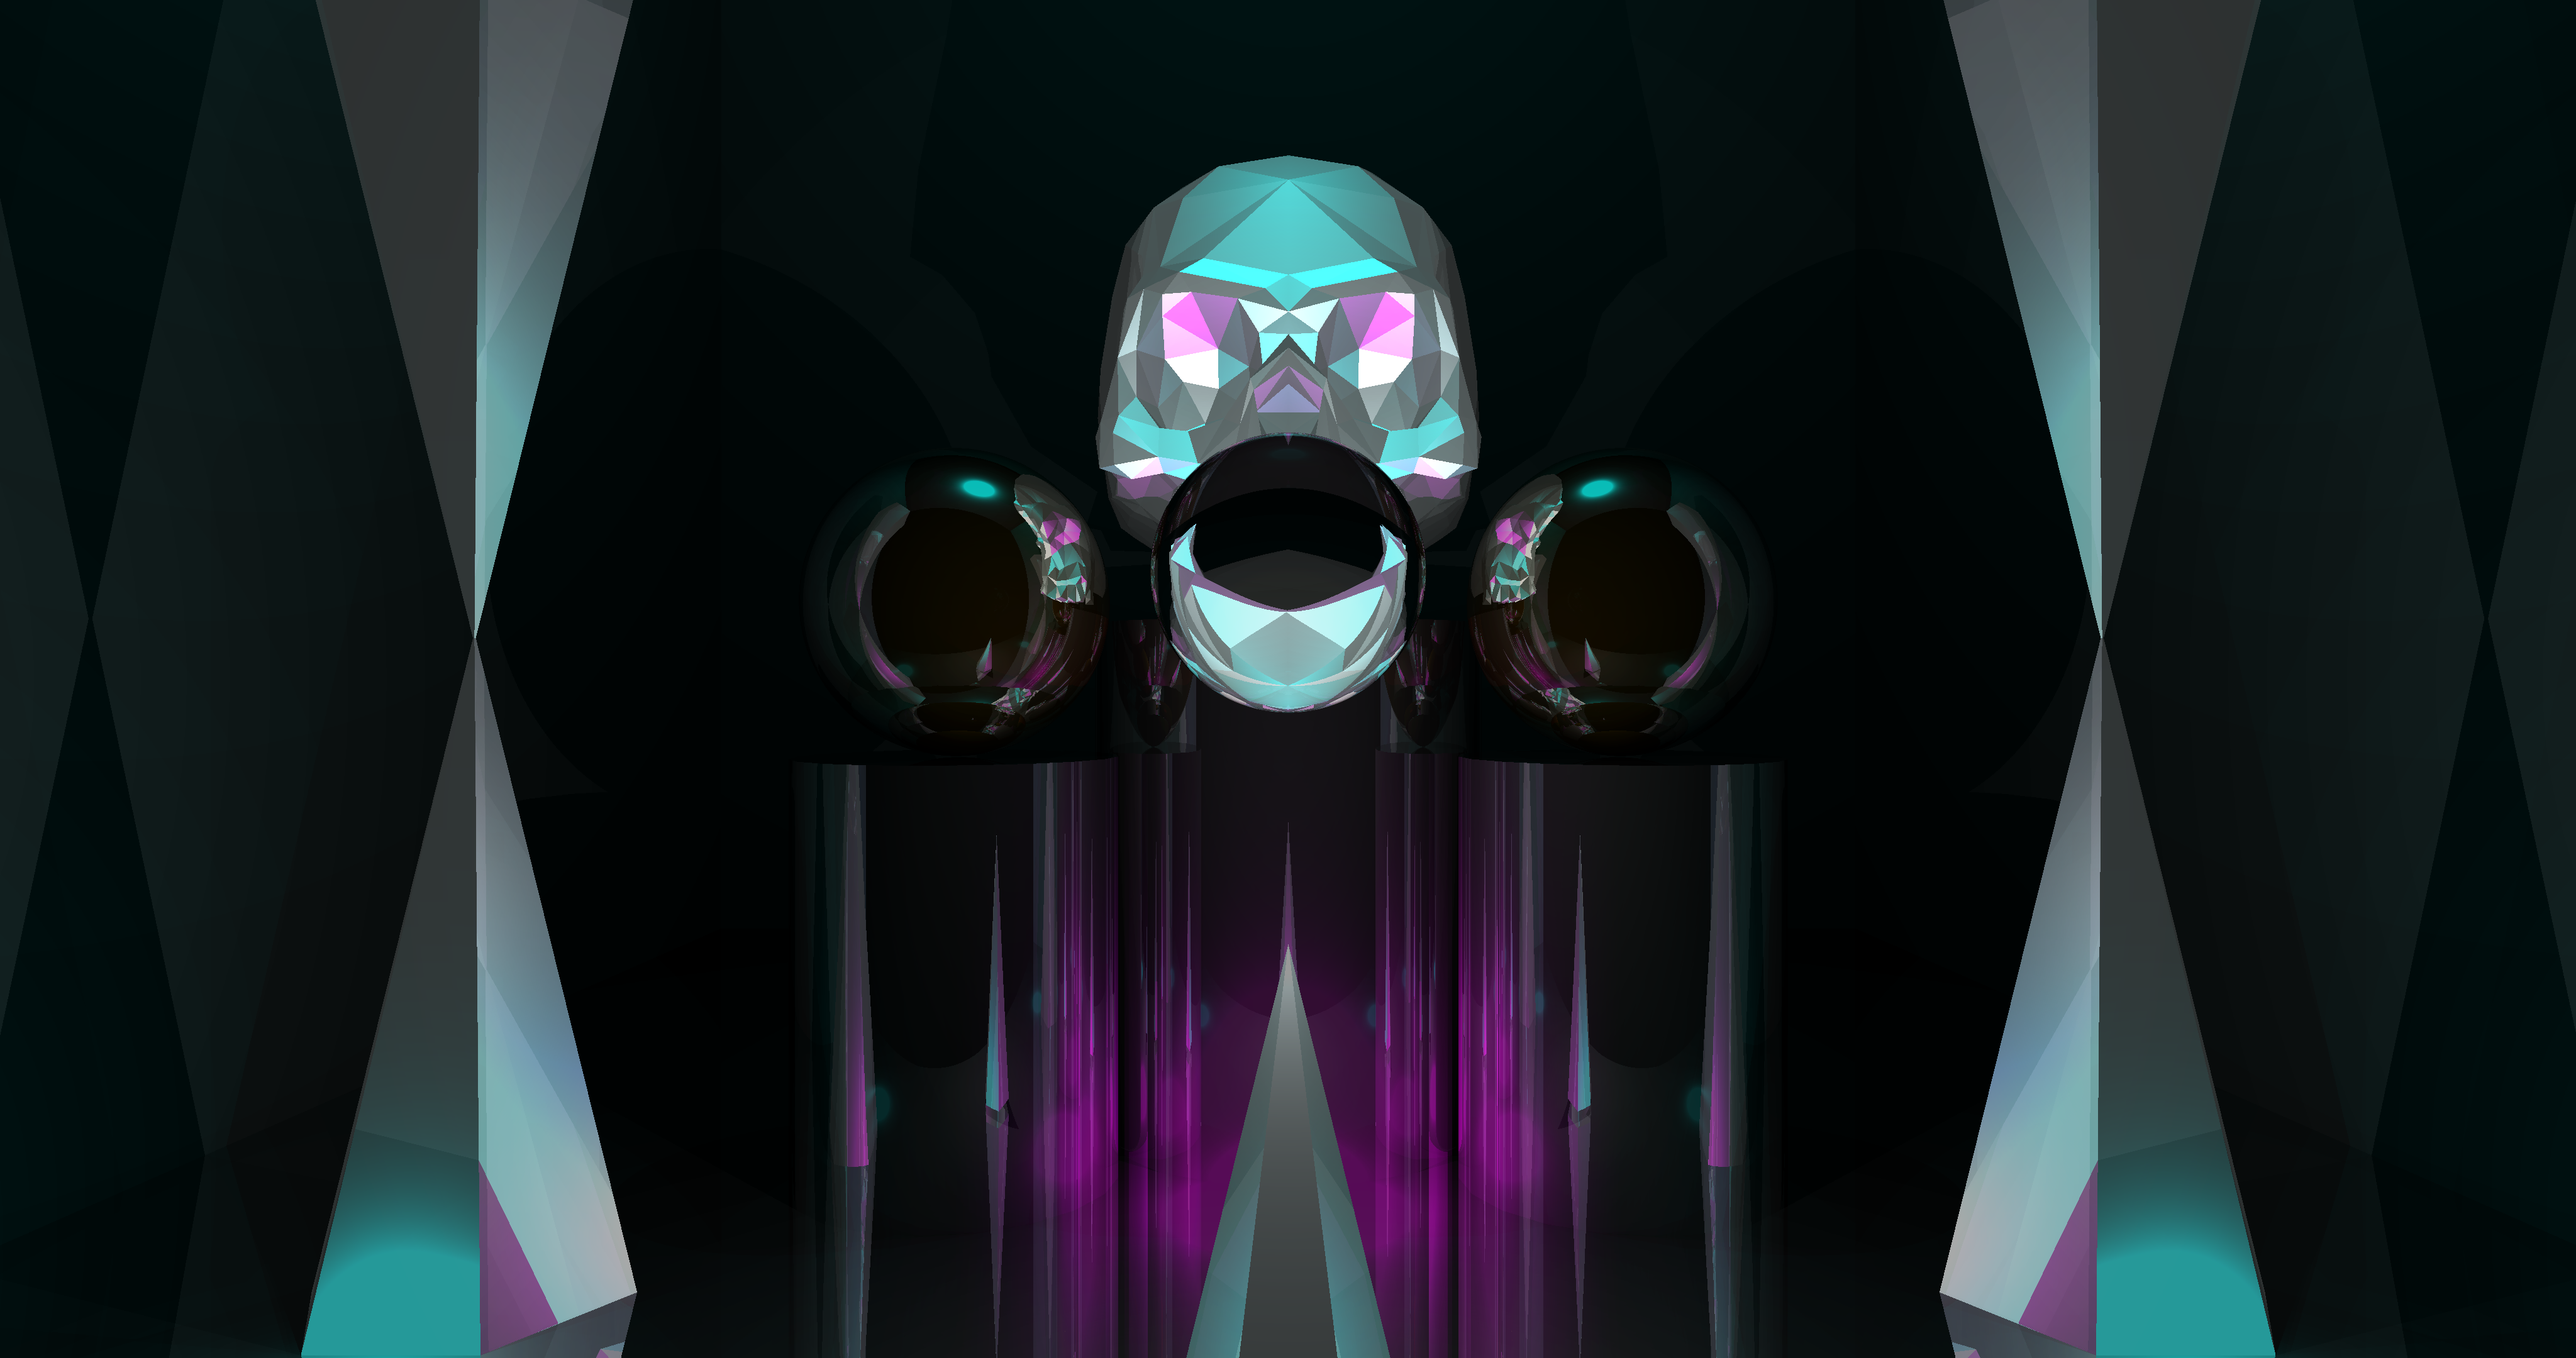
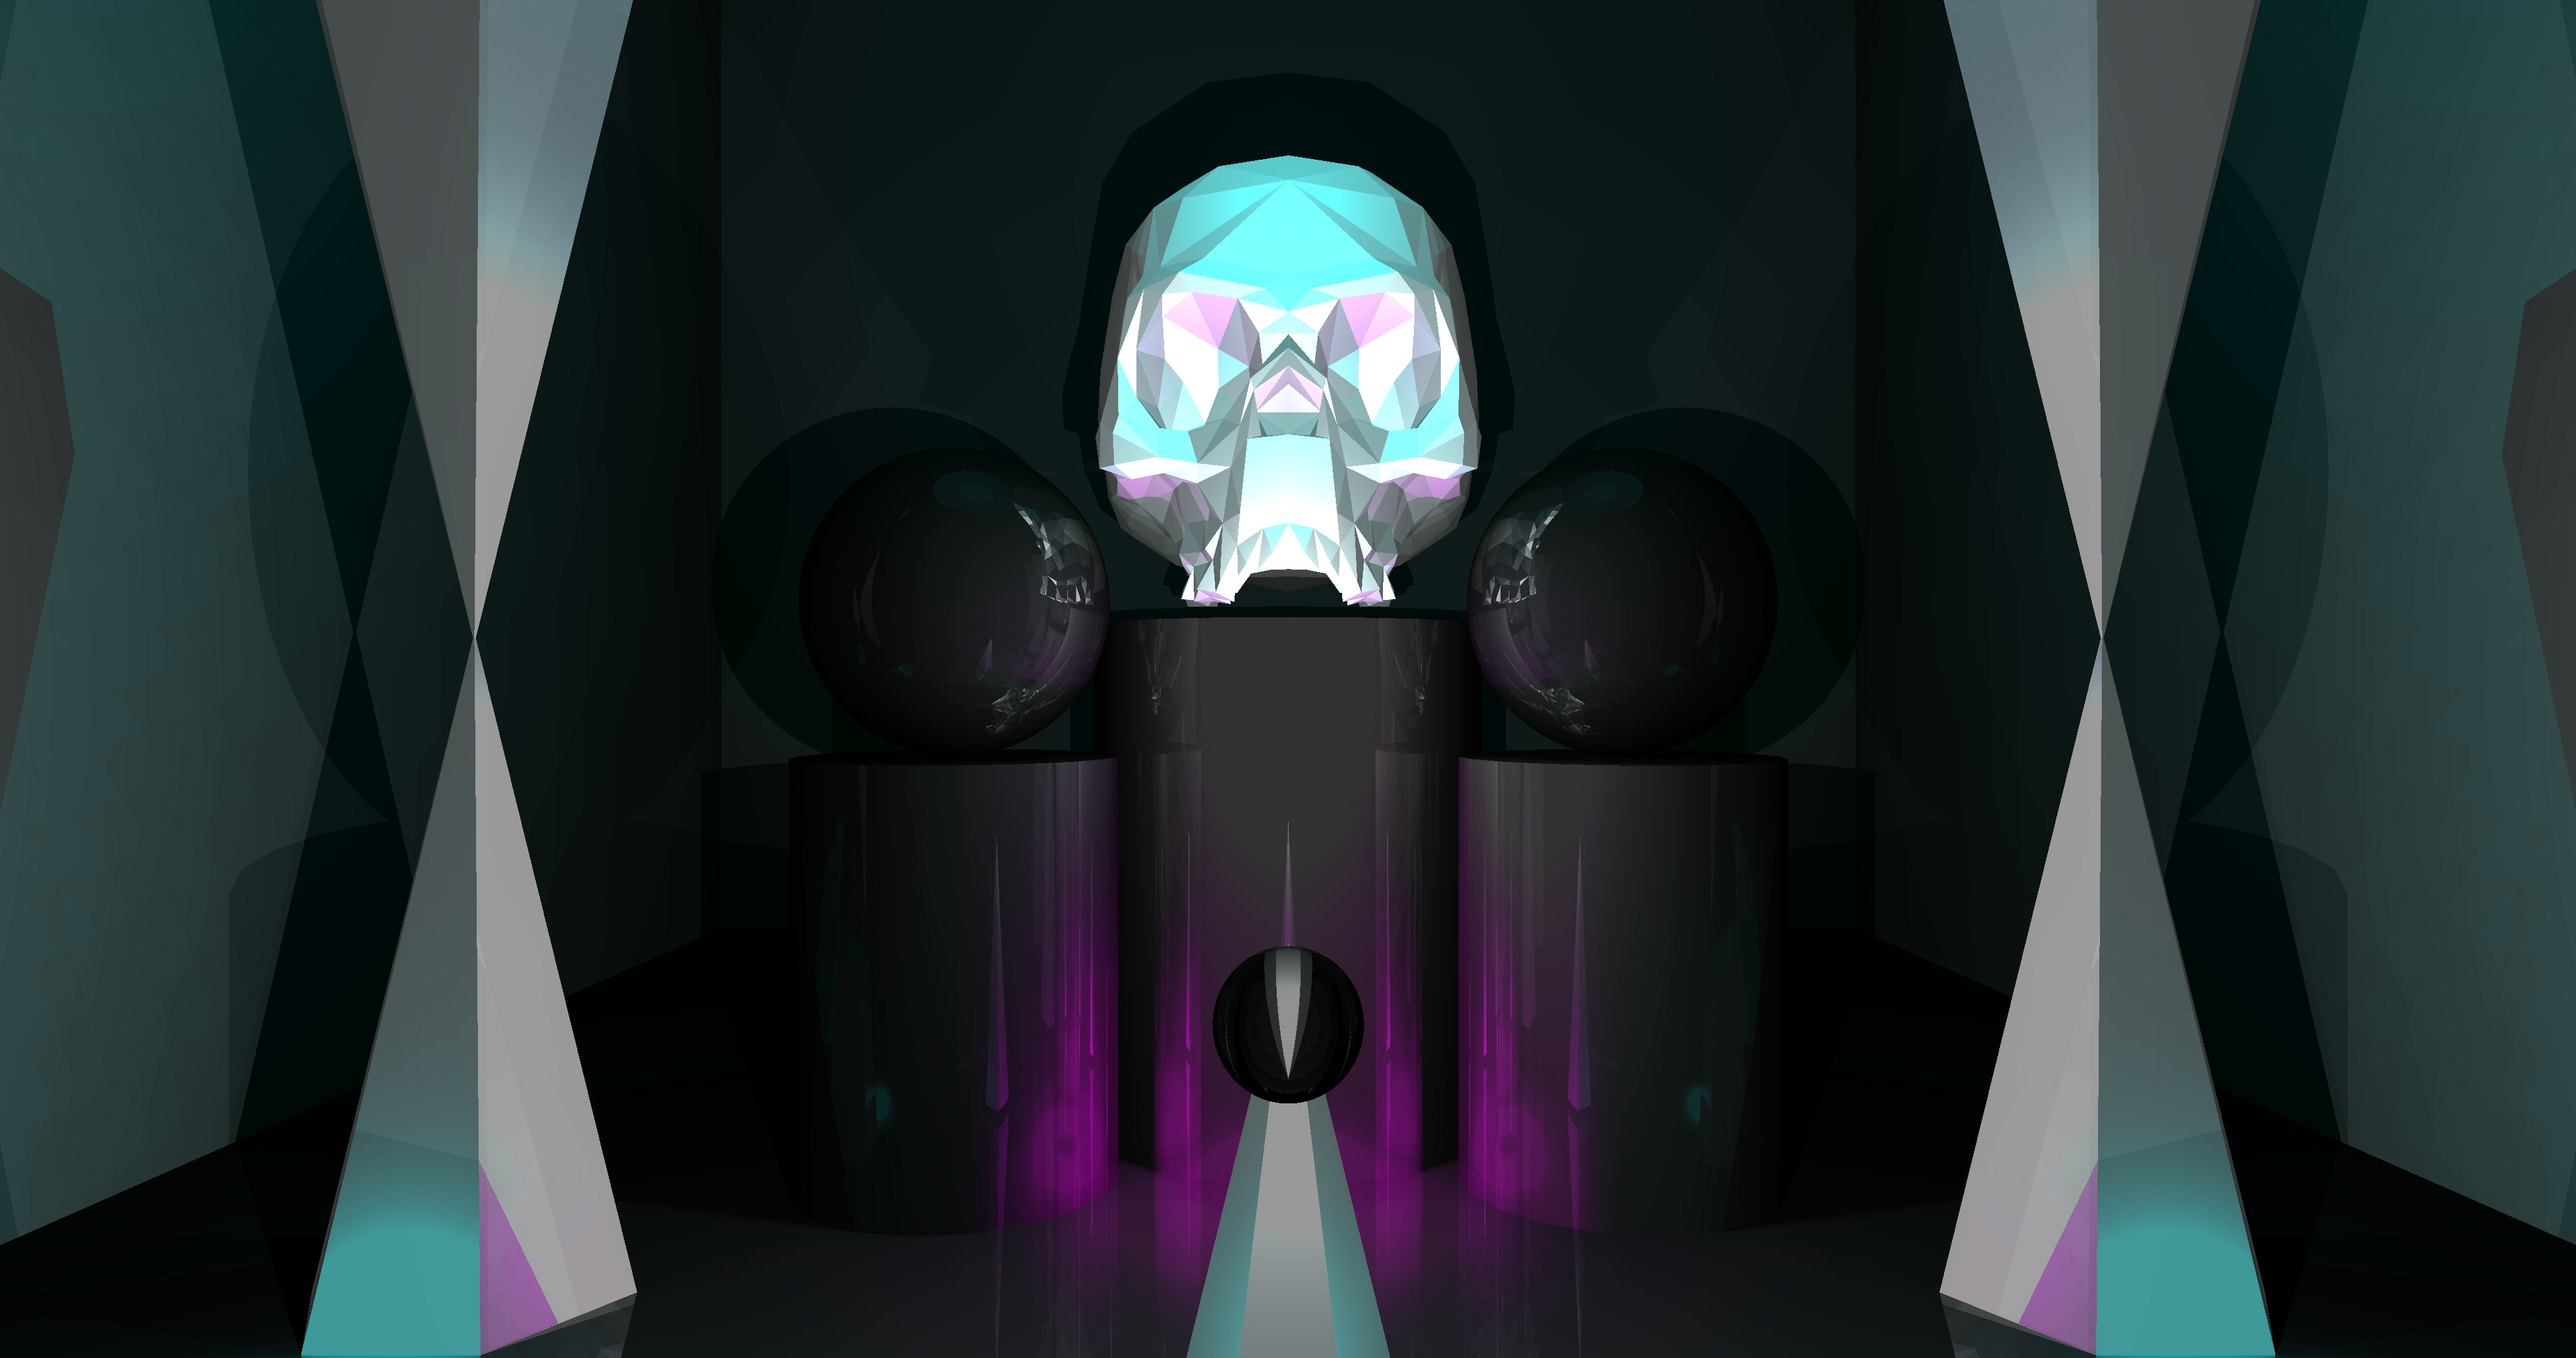
+Scenario 03 *Reflection, refraction shadowing

diff --git a/src/edu/up/isgc/cg/raytracer/Raytracer.java b/src/edu/up/isgc/cg/raytracer/Raytracer.java
@@ -35,11 +35,12 @@ public class Raytracer {
         //scene01.addLight(new PointLight(new Vector3D(0, -1, 0), Color.WHITE, 25));
         //scene01.addLight(new SpotLight(new Vector3D(0, 0, 3), new Vector3D(0, -1, 0), Color.WHITE, 4, 60));
         //scene01.addLight(new AreaLight(new Vector3D(0, 0, 3), new Vector3D(2, 0, 0), new Vector3D(0, 0, 2), new Vector3D(0, -1, 0), Color.WHITE, 15, 64));
-        scene01.addLight(new PointLight(new Vector3D(0, 0, 1), Color.WHITE, 3));
+        scene01.addLight(new PointLight(new Vector3D(0, 0, -2), Color.WHITE, 12));
+        scene01.addLight(new PointLight(new Vector3D(0, 0, 2.5), Color.WHITE, 2));
         scene01.addLight(new PointLight(new Vector3D(-3.5, -2.5, 1.5), Color.CYAN, 0.5));
-        scene01.addLight(new PointLight(new Vector3D(0, 9, 4), Color.CYAN, 5));
+        scene01.addLight(new PointLight(new Vector3D(0, 5, 2.7), Color.CYAN, 5));
         scene01.addLight(new PointLight(new Vector3D(3.5, -2.5, 1.5), Color.CYAN, 0.5));
-        scene01.addLight(new PointLight(new Vector3D(0, -2.5, 3.5), Color.MAGENTA, 2));
+        scene01.addLight(new PointLight(new Vector3D(0, -2.5, 3.5), Color.MAGENTA, 4));
         //scene01.addObject(new Sphere(new Vector3D(0.5, 1, 8), 0.8, Color.RED));
         //cene01.addObject(new Sphere(new Vector3D(0, -2.5, 3), 0.5, Color.CYAN, 0, 0.8, 0, 0));
         //scene01.addObject(new Sphere(new Vector3D(0, 2.5, 3), 0.5, Color.GREEN, 0, 0, 0, 0));
@@ -107,9 +108,9 @@ public class Raytracer {
         cube02.transform(1.25, 0, 15, 0);
         scene01.addObject(cube02);*/
 
-        scene01.addObject(new Sphere(new Vector3D(1.75, 0.4, 4), 0.8, goldColor, 0, 0.8, 0, 0));
-        scene01.addObject(new Sphere(new Vector3D(-1.75, 0.4, 4), 0.8, goldColor, 0, 0.8, 0, 0));
-        scene01.addObject(new Sphere(new Vector3D(0, 0.38, 1.5), 0.5, goldColor, 0, 0.8, 1.5, 0));
+        scene01.addObject(new Sphere(new Vector3D(1.75, 0.4, 4), 0.8, silverColor, 0, 0.8, 0, 0));
+        scene01.addObject(new Sphere(new Vector3D(-1.75, 0.4, 4), 0.8, silverColor, 0, 0.8, 0, 0));
+        scene01.addObject(new Sphere(new Vector3D(0, -0.9, 0), 0.2, silverColor, 0, 0.8, 1.5, 0));
         //scene01.addObject(new Sphere(new Vector3D(0.75, -0.1, 1.5), 0.5, goldColor, 0, 0.8, 1.5, 0));
 
         //scene01.addObject(new Sphere(new Vector3D(0, 1.5, 5), 1, goldColor, 0, 0.8, 0, 0));
@@ -191,12 +192,8 @@ public class Raytracer {
             for (Light light : lights) {
                 if(light instanceof AreaLight){
                     AreaLight areaLight = (AreaLight) light;
-                    Vector3D lightDir = Vector3D.normalize(Vector3D.substract(areaLight.getPosition(), closestIntersection.getPosition()));
-                    double ndotl = Math.max(Vector3D.dotProduct(areaLight.getDirection(), lightDir), 0.0);
-                    if(true){
-                        for(PointLight pointLight : areaLight.getSamplePoints()){
-                            pixelColor = ColorTools.addColor(pixelColor, getCombinedLightedColor(closestIntersection, pointLight, objects, clippingPlanes, objColor, viewerPosition));
-                        }
+                    for(PointLight pointLight : areaLight.getSamplePoints()){
+                        pixelColor = ColorTools.addColor(pixelColor, getCombinedLightedColor(closestIntersection, pointLight, objects, clippingPlanes, objColor, viewerPosition));
                     }
                 }
                 else{
@@ -310,14 +307,31 @@ public class Raytracer {
                 (float)(objColor.getBlue() / 255.0 * ambientIntensity));
     }
 
-    public static Color getReflectedColor(Ray ray, Intersection closestIntersection, List<Object3D> objects, List<Light> lights, double[] clippingPlanes, int depth){
+    public static Color getReflectedColor(Ray ray, Intersection closestIntersection, List<Object3D> objects, List<Light> lights, double[] clippingPlanes, int depth) {
         Vector3D reflectedDirection = Vector3D.normalize(Vector3D.substract(ray.getDirection(), Vector3D.scalarMultiplication(closestIntersection.getNormal(), 2 * Vector3D.dotProduct(ray.getDirection(), closestIntersection.getNormal()))));
         Vector3D offset = Vector3D.scalarMultiplication(closestIntersection.getNormal(), EPSILON);
         Vector3D reflectedOrigin = Vector3D.add(closestIntersection.getPosition(), offset);
         Ray reflectedRay = new Ray(reflectedOrigin, reflectedDirection);
-        Color reflectedColor = rayTraceColor(reflectedRay, closestIntersection.getPosition(), objects, lights, clippingPlanes, depth + 1, closestIntersection.getObject());
-        return ColorTools.scaleColor(reflectedColor, 0.9);
+        Color totalReflectedColor = Color.BLACK;
+        double totalWeight = 0.0;
+
+        for (Light light : lights) {
+            double ndotl = light.getNDotL(closestIntersection);
+            if (!isShadowed(closestIntersection, light, objects, clippingPlanes)) {
+                Color reflectedColor = rayTraceColor(reflectedRay, closestIntersection.getPosition(), objects, List.of(light), clippingPlanes, depth + 1, closestIntersection.getObject());
+                reflectedColor = ColorTools.scaleColor(reflectedColor, ndotl * 0.9);
+                totalReflectedColor = ColorTools.addColor(totalReflectedColor, reflectedColor);
+                totalWeight += ndotl;
+            }
+        }
+
+        if (totalWeight > 0) {
+            totalReflectedColor = ColorTools.scaleColor(totalReflectedColor, 1.0 / totalWeight);
+        }
+
+        return totalReflectedColor;
     }
+
 
     public static Color getRefractedColor(Ray ray, Intersection intersection, List<Object3D> objects, List<Light> lights, double[] clippingPlanes, int depth, Color reflectedColor) {
         Vector3D offset = Vector3D.scalarMultiplication(intersection.getNormal(), -EPSILON);
@@ -348,24 +362,40 @@ public class Raytracer {
         Vector3D T = Vector3D.normalize(Vector3D.add(Vector3D.scalarMultiplication(ray.getDirection(), n), Vector3D.scalarMultiplication(normal, (n * c1 - c2))));
 
         Ray refractedRay = new Ray(refractedOrigin, T);
-        Color refractedColor = rayTraceColor(refractedRay, refractedOrigin, objects, lights, clippingPlanes, depth, intersection.getObject());
-        double R0 = Math.pow((n1 - n2) / (n1 + n2), 2);
-        double Rtheta = R0 + (1 - R0) * Math.pow(1 - c1, 5);
-        refractedColor= ColorTools.addWeightedColor(reflectedColor, refractedColor, Rtheta);
-        if(entry) {
-            Intersection exitIntersection = raycast(refractedRay, objects, intersection.getObject(), clippingPlanes);
-            if (exitIntersection != null) {
-                // Calculate the distance the light travels inside the object
-                double distance = Vector3D.distance(intersection.getPosition(), exitIntersection.getPosition());
-                // Get the color of the refracting object
-                Color complementaryColor = ColorTools.getComplementaryColor(intersection.getObject().getColor());
-                // Apply Beer's Law to the refracted color using the object's color, distance, and absorption factor
-                refractedColor = applyBeersLaw(refractedColor, complementaryColor, distance, intersection.getObject().getAbsortionFactor());
+        Color totalRefractedColor = Color.BLACK;
+        double totalWeight = 0.0;
+
+        for (Light light : lights) {
+            double ndotl = light.getNDotL(intersection);
+            if (!isShadowed(intersection, light, objects, clippingPlanes)) {
+                Color refractedColor = rayTraceColor(refractedRay, refractedOrigin, objects, List.of(light), clippingPlanes, depth, intersection.getObject());
+                double R0 = Math.pow((n1 - n2) / (n1 + n2), 2);
+                double Rtheta = R0 + (1 - R0) * Math.pow(1 - c1, 5);
+                refractedColor = ColorTools.addWeightedColor(reflectedColor, refractedColor, Rtheta);
+
+                if (entry) {
+                    Intersection exitIntersection = raycast(refractedRay, objects, intersection.getObject(), clippingPlanes);
+                    if (exitIntersection != null) {
+                        double distance = Vector3D.distance(intersection.getPosition(), exitIntersection.getPosition());
+                        Color complementaryColor = ColorTools.getComplementaryColor(intersection.getObject().getColor());
+                        refractedColor = applyBeersLaw(refractedColor, complementaryColor, distance, intersection.getObject().getAbsortionFactor());
+                    }
+                }
+
+                refractedColor = ColorTools.scaleColor(refractedColor, ndotl);
+                totalRefractedColor = ColorTools.addColor(totalRefractedColor, refractedColor);
+                totalWeight += ndotl;
             }
         }
 
-        return refractedColor;
+        if (totalWeight > 0) {
+            totalRefractedColor = ColorTools.scaleColor(totalRefractedColor, 1.0 / totalWeight);
+        }
+
+        return totalRefractedColor;
     }
+
+
     public static Color applyBeersLaw(Color refractedColor, Color colorToAbsorb, double distance, double absorptionCoefficient) {
         // Calculate the absorbance for each color channel
         double absorbanceRed = absorptionCoefficient * distance * (colorToAbsorb.getRed() / 255.0);
